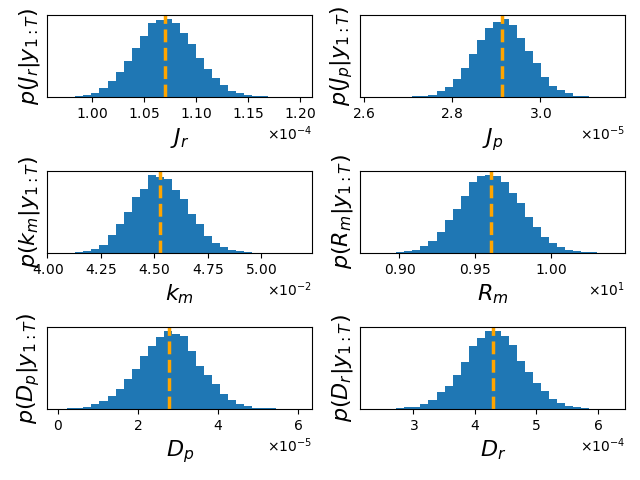
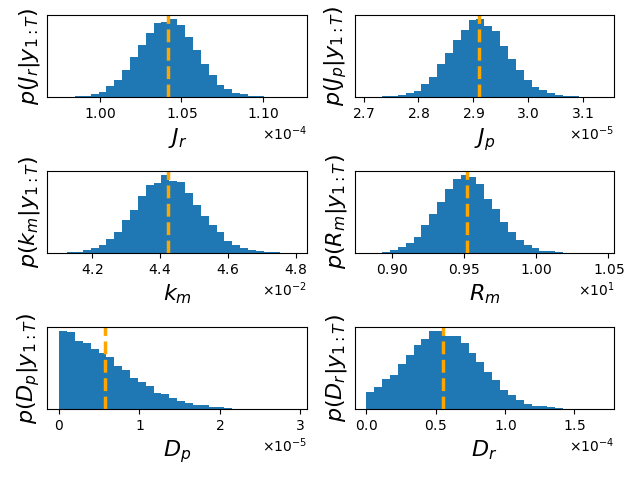
change to uncoupled model

diff --git a/example7_pendulum.py b/example7_pendulum.py
@@ -51,43 +51,17 @@ Lp = 0.129      # pendulum length
 g  = 9.81       # gravity
 
 # # state initialisation point
-# z_init = np.zeros((4,no_obs))
-# z_init[0,:] = y[0,:]
-# z_init[1,:] = y[1,:]
-# z_init[2,:-1] = (y[0,1:]-y[0,0:-1])/Ts
-# z_init[2,-1] = z_init[2,-2]
-# z_init[3,:-1] = (y[1,1:]-y[1,0:-1])/Ts
-# z_init[3,-1] = z_init[3,-2]
+z_init = np.zeros((4,no_obs))
+z_init[0,:] = y[0,:]
+z_init[1,:] = y[1,:]
+z_init[2,:-1] = (y[0,1:]-y[0,0:-1])/Ts
+z_init[2,-1] = z_init[2,-2]
+z_init[3,:-1] = (y[1,1:]-y[1,0:-1])/Ts
+z_init[3,-1] = z_init[3,-2]
 
-# model = pystan.StanModel(file='stan/pendulum.stan')
+model = pystan.StanModel(file='stan/pendulum.stan')
 
-# stan_data = {'no_obs': no_obs,
-#              'Ts':Ts[0,0],
-#              'y': y,
-#              'u': u.flatten(),
-#              'Lr':Lr,
-#              'Mp':Mp,
-#              'Lp':Lp,
-#              'g':g,
-#              # 'z0':mu0.flatten(),
-#              }
-
-################ Coupled version
-# state initialisation point
-z_init = np.zeros((4,no_obs+1))
-z_init[0,:-1] = y[0,:]
-z_init[1,:-1] = y[1,:]
-z_init[0,-1] = y[0,-1]      # repeat last entry
-z_init[1,-1] = y[1,-1]      # repeat last entry
-z_init[2,:-2] = (y[0,1:]-y[0,0:-1])/Ts
-z_init[2,-1:] = z_init[2,-3]
-z_init[3,:-2] = (y[1,1:]-y[1,0:-1])/Ts
-z_init[3,-1:] = z_init[3,-3]
-
-model = pystan.StanModel(file='stan/pendulum_coupled.stan')
-mu0 = np.zeros((4,))
-cP0 = np.array([np.deg2rad(10),np.deg2rad(10),np.deg2rad(100),np.deg2rad(100)])
-stan_data ={'no_obs': no_obs,
+stan_data = {'no_obs': no_obs,
              'Ts':Ts[0,0],
              'y': y,
              'u': u.flatten(),
@@ -95,9 +69,35 @@ stan_data ={'no_obs': no_obs,
              'Mp':Mp,
              'Lp':Lp,
              'g':g,
-             'mu0':mu0,
-             'cP0':cP0,
+             # 'z0':mu0.flatten(),
              }
+
+################ Coupled version
+# # state initialisation point
+# z_init = np.zeros((4,no_obs+1))
+# z_init[0,:-1] = y[0,:]
+# z_init[1,:-1] = y[1,:]
+# z_init[0,-1] = y[0,-1]      # repeat last entry
+# z_init[1,-1] = y[1,-1]      # repeat last entry
+# z_init[2,:-2] = (y[0,1:]-y[0,0:-1])/Ts
+# z_init[2,-1:] = z_init[2,-3]
+# z_init[3,:-2] = (y[1,1:]-y[1,0:-1])/Ts
+# z_init[3,-1:] = z_init[3,-3]
+#
+# model = pystan.StanModel(file='stan/pendulum_coupled.stan')
+# mu0 = np.zeros((4,))
+# cP0 = np.array([np.deg2rad(10),np.deg2rad(10),np.deg2rad(100),np.deg2rad(100)])
+# stan_data ={'no_obs': no_obs,
+#              'Ts':Ts[0,0],
+#              'y': y,
+#              'u': u.flatten(),
+#              'Lr':Lr,
+#              'Mp':Mp,
+#              'Lp':Lp,
+#              'g':g,
+#              'mu0':mu0,
+#              'cP0':cP0,
+#              }
 
 control = {"adapt_delta": 0.85,
            "max_treedepth":13}         # increasing from default 0.8 to reduce divergent steps
@@ -115,7 +115,7 @@ fit = model.sampling(data=stan_data, iter=10000, chains=4,control=control, init=
 
 traces = fit.extract()
 
-with open('results/pendulum_set1_results_coupled_rk4.pickle', 'wb') as file:
+with open('results/pendulum_set1_results_rk4.pickle', 'wb') as file:
     pickle.dump(traces, file)
 
 

diff --git a/example7_plot.py b/example7_plot.py
@@ -49,13 +49,13 @@ z_init[3,-1] = z_init[3,-2]
 
 # with open('results/pendulum_data1_trial0.pickle','rb') as file:
 #     traces = pickle.load(file)
-with open('results/pendulum_set1_results_coupled_euler.pickle','rb') as file:
+with open('results/pendulum_set1_results_coupled_rk4.pickle','rb') as file:
     traces = pickle.load(file)
 
-# savemat('results/pendulum_traces_rk4.mat',traces)
+savemat('results/pendulum_traces_rk4.mat',traces)
 
 theta = traces['theta']
-z = traces['h']
+z = traces['h'][:,:,:no_obs]
 yhat = traces['yhat']
 
 # lm = traces['meas_loglikelihood']
